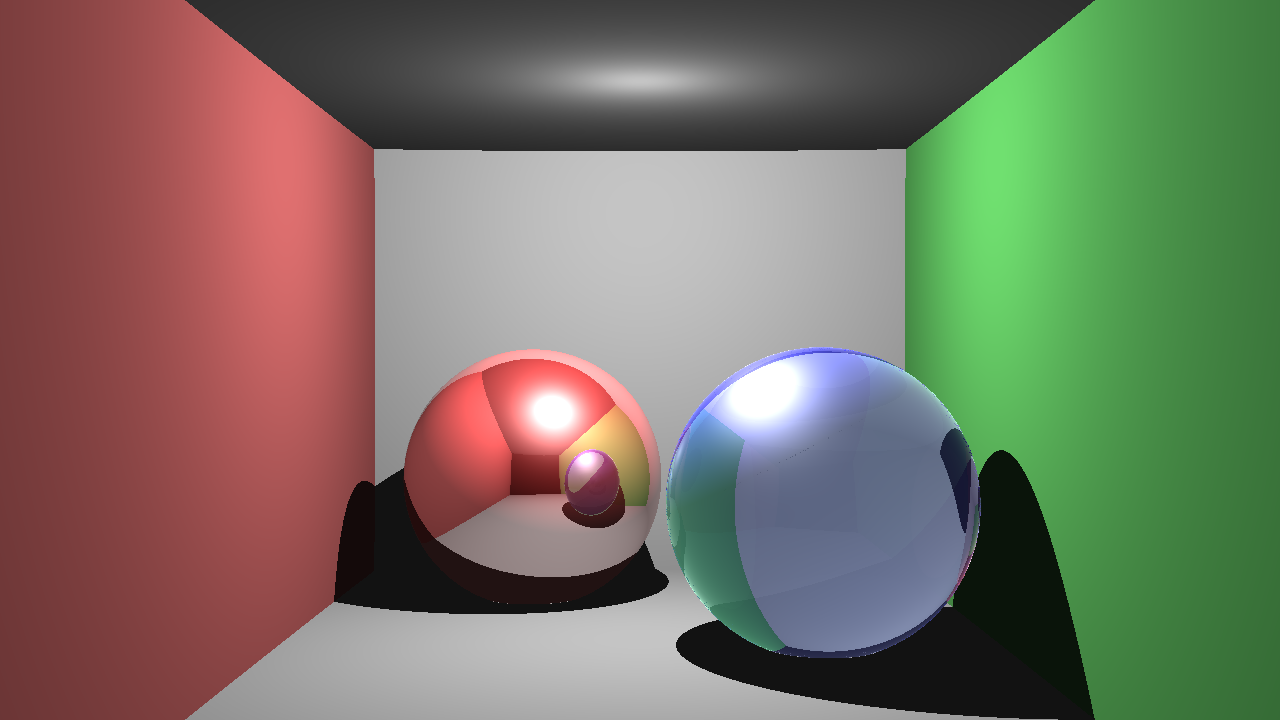
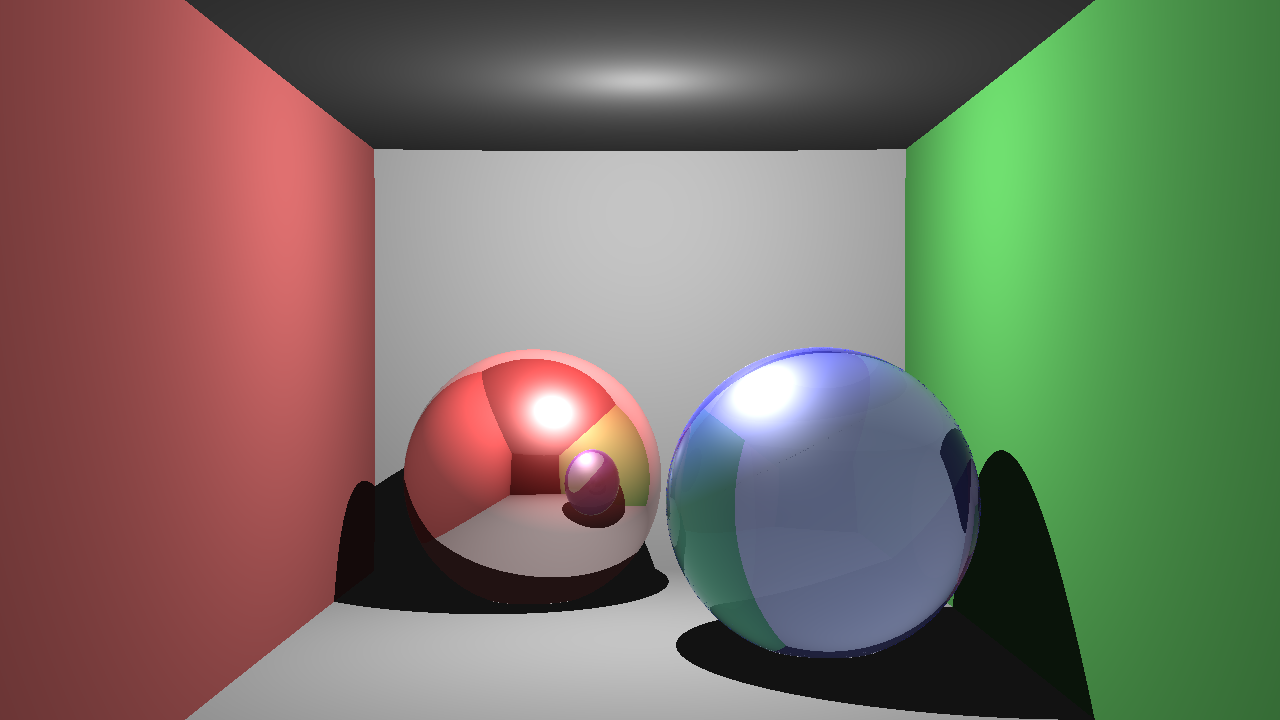
Took away light from refractions with fresnel

diff --git a/src/Materials.cpp b/src/Materials.cpp
@@ -76,14 +76,14 @@ Color MtlBlinn::Shade(Ray const &ray, HitInfo const &hInfo, LightList const &lig
 
         // Fresnel
         const float fresnelRatio{ pow((1 - ior) / (1 + ior), 2) };
-        const float fresnelReflectionRatio{ fresnelRatio + (1 - fresnelRatio) * pow(1 - viewDotN, 5) };
+        const float fresnelReflectionAmount{ fresnelRatio + (1 - fresnelRatio) * pow(1 - viewDotN, 5) };
         const Vec3f perfectReflectionDir{ N * 2 * viewDotN - viewDir };
         const Ray reflectionRay{ hInfo.p + perfectReflectionDir * 0.0002f, perfectReflectionDir };
         HitInfo reflectionHitInfo{};
         if (shootRay(lightsGlobalVars::rootNode, reflectionRay, reflectionHitInfo, HIT_FRONT_AND_BACK))
         {
             const Color colorFromReflection{ reflectionHitInfo.node->GetMaterial()->Shade(reflectionRay, reflectionHitInfo, lights, bounceCount - 1) * refraction };
-            finalColor += colorFromReflection * fresnelReflectionRatio;
+            finalColor += colorFromReflection * fresnelReflectionAmount;
         }
 
         const Vec3f refractionDir{ -refractionRatio * viewDir - (sqrt(cosThetaRefractionSquared) - refractionRatio * viewDotN) * N };
@@ -101,7 +101,7 @@ Color MtlBlinn::Shade(Ray const &ray, HitInfo const &hInfo, LightList const &lig
                 colorFromRefraction[1] *= absorptionGreen;
                 colorFromRefraction[2] *= absorptionBlue;
             }
-            finalColor += colorFromRefraction;
+            finalColor += colorFromRefraction * (1.0f - fresnelReflectionAmount);
         }
     }
 
